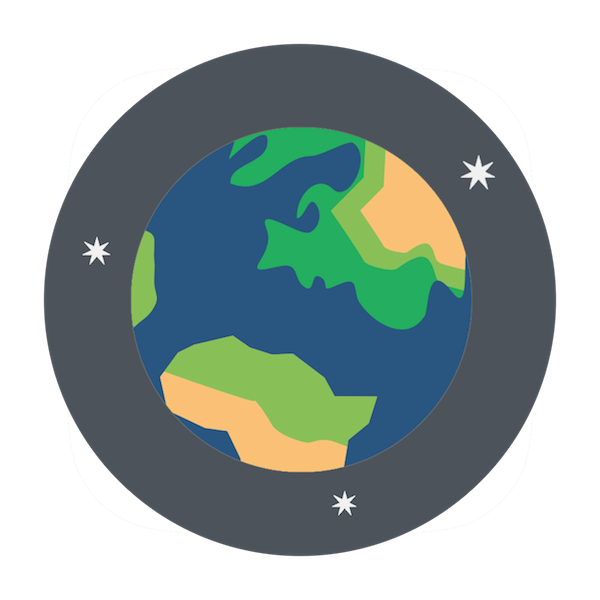
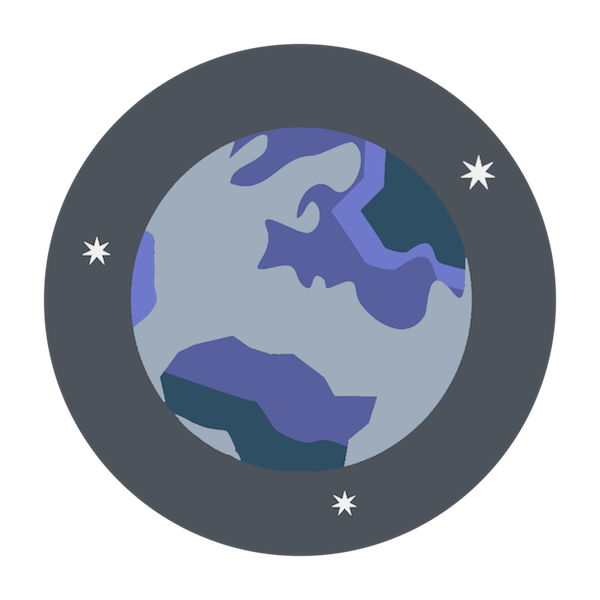
Visual Updates

Changed region(s): [[0.21, 0.21, 0.81, 0.81]]

diff --git a/css/main.css b/css/main.css
@@ -35,11 +35,11 @@ p, ul, a {
 }
 
 a, a:active, a:visited {
-  color: #2eb8b8;
+  color: #c8bbdd;
 }
 
 a:hover {
-  color: #5A7BC6;
+  color: #EFE389;
   text-decoration: none;
 }
 
@@ -89,6 +89,12 @@ a:hover {
 
 .header-logo {
   max-width: 30%;
+  transition: all 0.2s linear;
+
+}
+
+.grow {
+  max-width: 33%;
 }
 
 /* ---> Navbar <------------------------------ */
@@ -99,7 +105,7 @@ a:hover {
 }
 
 .navbar-brand img {
-  max-width: 18%;
+  max-width: 16%;
 }
 
 .navbar-fadeIn {
@@ -123,8 +129,9 @@ a:hover {
   color: #ffffff;
 }
 
+
 .navbar-nav .nav-item .nav-link:hover {
-  color: #5A7BC6;
+  color: #bcbedc;
 }
 
 .nav-link-desktop {
@@ -132,9 +139,10 @@ a:hover {
 }
 
 .solid {
-  background: #53575A;
+  background: none;
   opacity: .8;
   transition: all 2s ease-in;
+  color: #464b86;
 }
 
 .shrink {
@@ -190,7 +198,7 @@ a:hover {
 /* ---> Button & Other <--------------------------- */
 
 a.btn, .btn {
-  border: 2px solid;
+  border: 1px solid;
   margin: 0 0.5% 0 0.5%;
   border-radius: 0px;
 }
@@ -208,22 +216,26 @@ a:active {
 }
 
 .btn-no-fill:hover {
-  color: #ffffff;
-  background: #1D47A8;
-  border-color: #1D47A8;
+  color: #fff;
+  background: #5F62A4;
+  border-color: #5F62A4;
 }
 
 .btn-fill, .btn-fill:active, .btn-fill:visited {
-  color: #ffffff;
-  background: #1D47A8;
-  border-color: #1D47A8 !important;
+  color: #5F62A4;
+  background: #fff;
+  border-color: #fff !important;
   text-transform: uppercase;
 }
 
 .btn-fill:hover {
-  color: #1D47A8;
-  background: #ffffff;
-  border-color: #ffffff !important;
+  color: #fff;
+  background: #5F62A4;
+  border-color: #5F62A4 !important;
+}
+
+.btn-text {
+  opacity: 0.9;
 }
 
 .btn-large {
@@ -249,13 +261,14 @@ hr.star-primary {
 }
 
 .close {
+  color: #545792;
   font-size: 60px;
   margin-top: 9;
   margin-left: 80px;
 }
 
 .close:hover {
-  color: #5A7BC6;
+  color: #5F62A4;
 }
 
 /* ---> Page Sections <------------------------------- */
@@ -271,7 +284,7 @@ hr.star-primary {
 
 #skills {
   color: #ffffff;
-  background-color: #2c3e50;
+  background-color: #797db9;
 }
 
 #skills-content {
@@ -298,7 +311,7 @@ hr.star-primary {
 
 #contact {
   color: #ffffff;
-  background-color: #2c3e50;
+  background-color: #797db9;
 }
 
 #contact-content {
@@ -307,11 +320,16 @@ hr.star-primary {
 
 /* ---> Skills Bars <------------------------------- */
 
+.bars{
+}
+
+
+
 .bar {
-  background: #29a3a3;
+  background: #fff;
   width: 0;
   margin: .25em 0;
-  color: #fff;
+  color: #292e56;
   position: relative;
   transition: width 2s, background .2s;
   clear: both;

diff --git a/css/mobile.css b/css/mobile.css
@@ -1,4 +1,8 @@
 /* ---> Mobile CSS <----------------------------------------------------------- */
+.sampleClass {float:left;}
+@media only screen and (max-width: 768px){
+	.sampleClass {float:none;}
+}
 
 @media(max-width:768px) {
   /* ---> Font Size <----------------------------- */
@@ -23,7 +27,7 @@
   /* ---> Container & Image Sizing <---------------- */
   .overlay {
     opacity: 1;
-    background: linear-gradient(to bottom right, #238481, #36CCC8);
+    background: linear-gradient(to bottom right, #575F9F, #FFE5A2);
     height: auto;
     max-width: 100%;
   }
@@ -41,6 +45,11 @@
   }
   .header-logo {
     max-width: 60%;
+    transition: all 0.2s linear;
+  }
+
+  .grow {
+    max-width: 65%;
   }
 
   .info{
@@ -50,7 +59,7 @@
 
   /* ---> Navbar <---------------------------------- */
   .navbar-brand img {
-    max-width: 55px;
+    max-width: 75px;
   }
 
   .navbar-nav .nav-item .nav-link {
@@ -58,22 +67,32 @@
     color: #000000;
   }
 
+  .navbar-nav .nav-item .nav-link:hover {
+    color: #545792;
+  }
+
   .slide-link {
     font-size: 30px;
   }
 
   .solid {
-    background: #4FB7B4;
+    /* background: #898CC1; */
+    background: none;
+
     opacity: .9;
   }
 
   /* ---> Other <-------------------------- */
-  hr.star-light, hr.star-primary {
-    background-image: url("../images/blue-green-gradient.png");
+  hr.star-light {
+    background: #fff;
     background-size: contain;
     background-position: left;
     border: none;
     height: 2px;
+  }
+
+  hr.star-primary {
+    background: #8c8c8c;
   }
 
   .divider{
@@ -85,10 +104,18 @@
     background-color: #ffffff;
     color: #8c8c8c;
   }
-  #skills, #skills ul, #contact, #contact p {
-    color: #ffffff;
-    background-color: #2c3e50;
+  #skills, #skills ul, #contact, #contact p{
+    color: #fff;
+    background-color: #9b9dca;
   }
+ #contact a {
+   color: #dedeed;
+ }
+
+ #contact a:hover{
+   text-decoration: underline;
+ }
+
   #projects {
     background: #ffffff;
     color: #8c8c8c;

diff --git a/scripts/script.js b/scripts/script.js
@@ -14,6 +14,7 @@ qb.App = (function() {
     openAppInfo();
     navClick();
     callToAction();
+    purpleLogo();
   }
 
   /* ---> Event Functions <-------------------------- */
@@ -33,7 +34,7 @@ qb.App = (function() {
   function fadeInDivs() {
 
     $(window).scroll(function() {
-      if ($(this).scrollTop() > ($("#projects").offset().top - 550)) {
+      if ($(this).scrollTop() > ($("#projects").offset().top - 540)) {
         $("#projects-content").animate({
           'opacity': '1'
         }, 1200);
@@ -112,8 +113,6 @@ qb.App = (function() {
     });
   }
 
-
-
   function navClick() {
 
     $(".nav-link").click(function() {
@@ -129,7 +128,6 @@ qb.App = (function() {
     scrollToSection($(".cta-button"));
   }
 
-
   function barChart() {
 
       $('.bar').each(function (i) {
@@ -138,6 +136,29 @@ qb.App = (function() {
               $bar.css('width', $bar.attr('data-percent'));
           }, i * 100);
       });
+  }
+
+  function purpleLogo(){
+    purple = new Image(100,100);
+    purple.src = "images/logo/qb-4-purple.png";
+    white = new Image(100,100);
+    white.src = "images/logo/qb-4-round-new.png";
+
+    $(".header-logo").hover(
+      function(){
+      $(".header-logo").addClass("grow");
+      // if !mobile do this
+      if ($(window).width() > 768){
+        $(".header-logo").attr("src", purple.src);
+      }
+      },
+      function(){
+        $(".header-logo").removeClass("grow");
+      $(".header-logo").attr("src", white.src);
+      }
+  );
+  //$("#pic1").attr("src", searchPic.src);
+
   }
 
 
@@ -207,7 +228,7 @@ qb.App = (function() {
     sourceClick.click(function(event) {
       // animate scroll
       $('html, body').animate({
-        scrollTop: ($(this.hash).offset().top - 75)
+        scrollTop: ($(this.hash).offset().top - 100)
       }, 600
     );
     });

diff --git a/index.html b/index.html
@@ -26,7 +26,7 @@
 
 
     <a href="#" class="navbar-brand">
-      <img src="images/logo/qb-3-white.png">
+      <img src="images/logo/qb-4-black.png">
     </a>
 
     <button id="menu-toggle" class="navbar-toggler" type="button">
@@ -80,12 +80,12 @@
     <div class="bg-img">
       <div class="overlay">
         <div class="container header text-center">
-          <Img class="header-logo" src="images/logo/qb-3-round.png"><img>
+          <Img class="header-logo" src="images/logo/qb-4-round-new.png"><img>
           <h1>Qiana Barton</h1>
           <h2></h2>
           <a class="cta-button btn btn-large btn-no-fill" href="#contact">Contact</a>
           <div class="divider d-md-none"></div>
-          <a class="cta-button btn btn-large btn-fill" href="#projects">Projects</a>
+          <a class="cta-button btn btn-large btn-fill" href="#projects"><span class="btn-text">Projects</span></a>
         </div>
       </div>
     </div>
